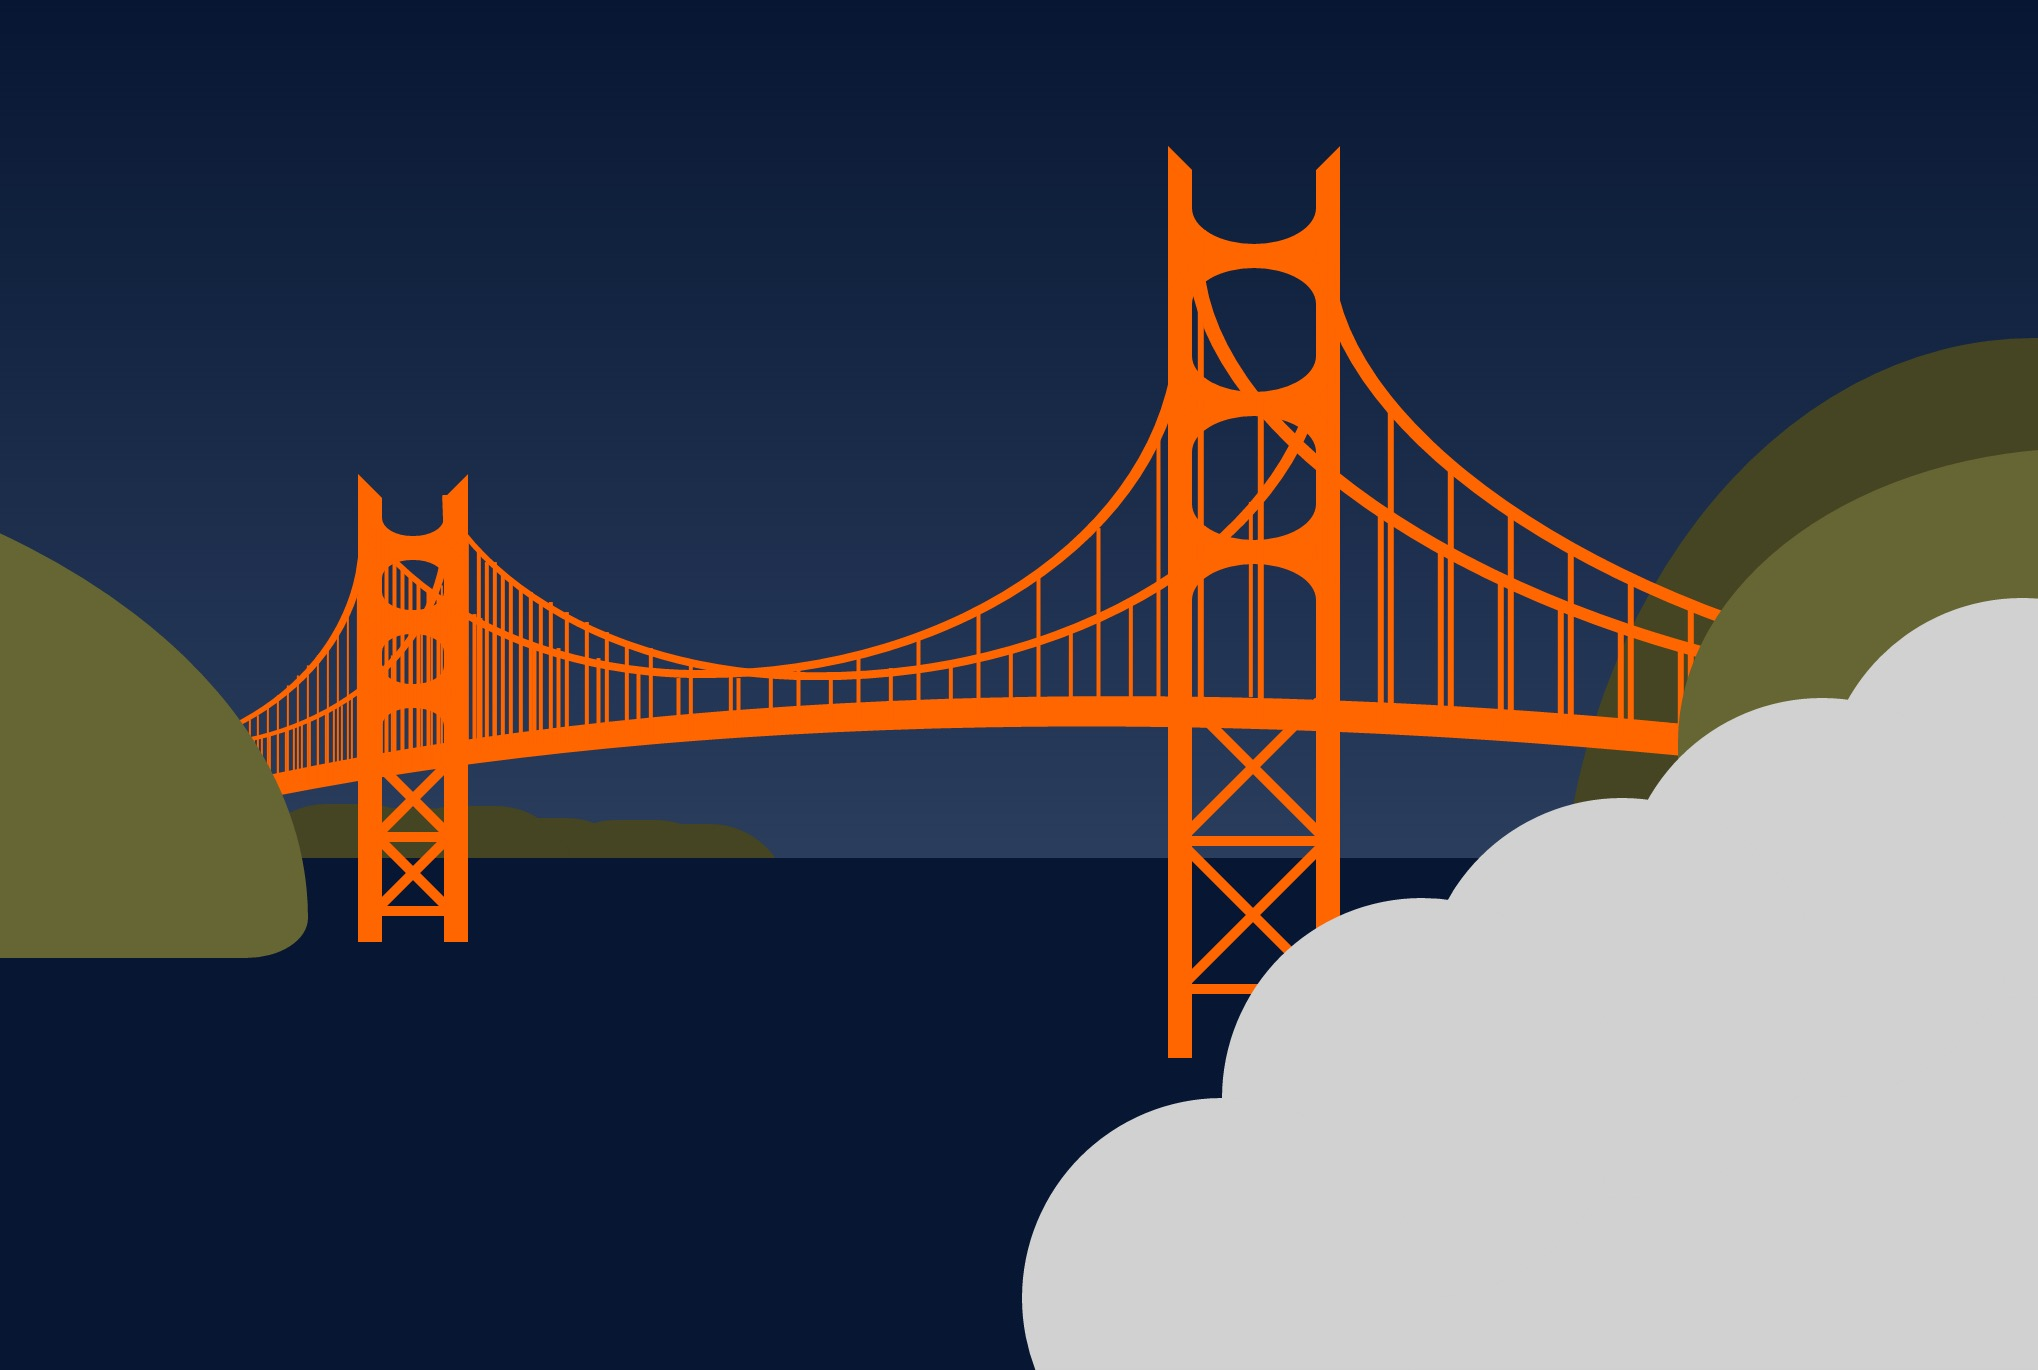
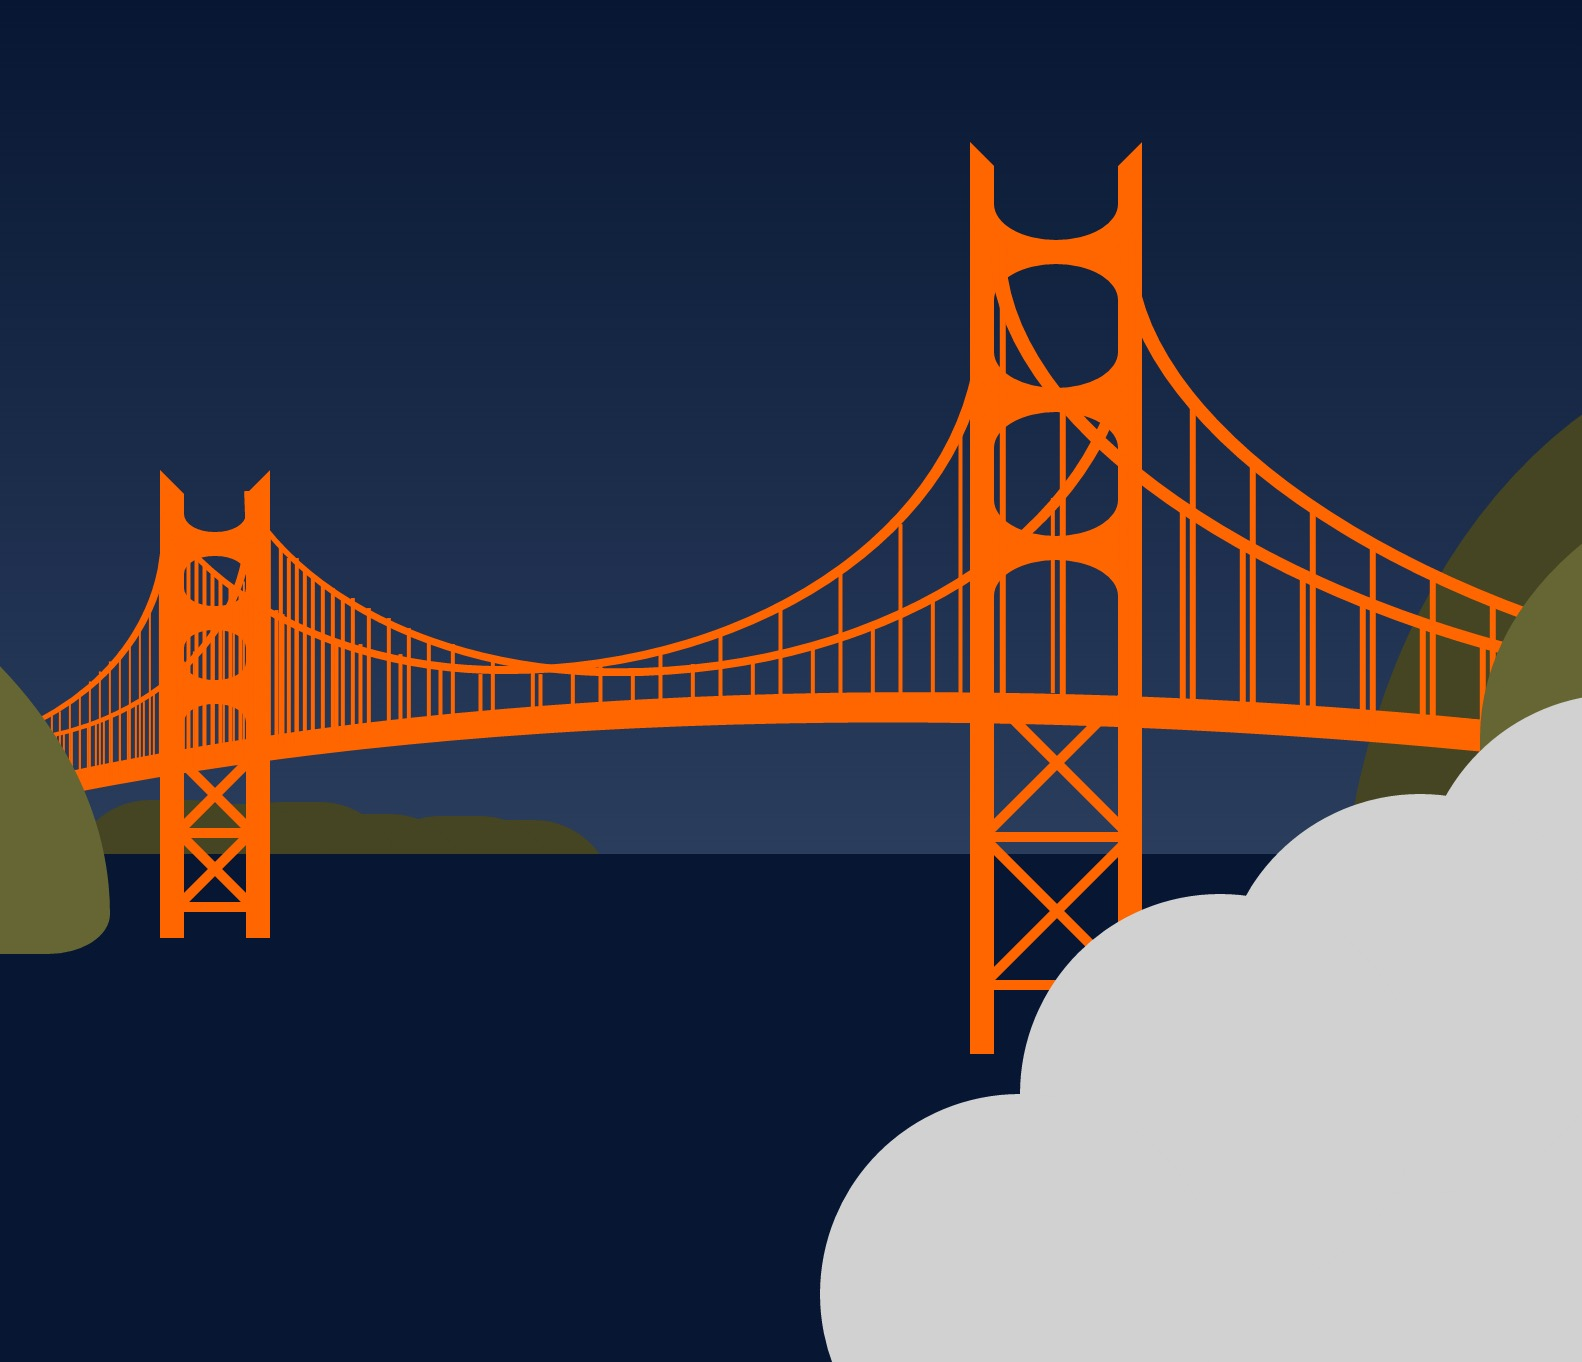
add more projects

Changed region(s): [[0.0, 0.0925, 1.0, 1.0], [0.3407, 0.5859, 0.3717, 0.6167]]

diff --git a/_site/index.html b/_site/index.html
@@ -124,22 +124,6 @@ _________,   ___/ /  ,__________
   <h2>Workings</h2>
   
 <article class="featured project">
-  <a class="post-img" href="/projects/2015-05-09-project-devolio.html" rel="bookmark" title="Link to DEVOLIO - Dev Portfolio"><img src="/assets/project-images/devolio2.jpg" alt="Sample of DEVOLIO - Dev Portfolio" /></a>
-  <a href="/projects/2015-05-09-project-devolio.html" class="featured-text">
-    <h3 class="bold subtitle">DEVOLIO - Dev Portfolio</h3>
-    <p>Final project for Dev Bootcamp Localhost</p>
-  </a>
-</article>
-
-<article class="featured project">
-  <a class="post-img" href="/projects/2015-05-08-project-pokedecks.html" rel="bookmark" title="Link to Pokédecks Flashcard Game"><img src="/assets/project-images/pokedecks.jpg" alt="Sample of Pokédecks Flashcard Game" /></a>
-  <a href="/projects/2015-05-08-project-pokedecks.html" class="featured-text">
-    <h3 class="bold subtitle">Pokédecks Flashcard Game</h3>
-    <p>Weekend team project at Dev Bootcamp</p>
-  </a>
-</article>
-
-<article class="featured project">
   <a class="post-img" href="/projects/2015-05-07-project-anf-responsive.html" rel="bookmark" title="Link to Prototype Transition of Existing A&amp;F Mobile/Desktop Websites to Responsive Design &amp; Codebase"><img src="/assets/project-images/anf-pdp-mid.png" alt="Sample of Prototype Transition of Existing A&amp;F Mobile/Desktop Websites to Responsive Design &amp; Codebase" /></a>
   <a href="/projects/2015-05-07-project-anf-responsive.html" class="featured-text">
     <h3 class="bold subtitle">Prototype Transition of Existing A&amp;F Mobile/Desktop Websites to Responsive Design &amp; Codebase</h3>
@@ -168,6 +152,22 @@ _________,   ___/ /  ,__________
   <a href="/projects/2015-05-04-project-pure-css-taj-mahal.html" class="featured-text">
     <h3 class="bold subtitle">Pure CSS Taj Mahal</h3>
     <p>Practice using SCSS to create digital art</p>
+  </a>
+</article>
+
+<article class="featured project">
+  <a class="post-img" href="/projects/2015-05-03-project-pure-css-bridge.html" rel="bookmark" title="Link to Pure CSS Golden Gate Bridge"><img src="/assets/project-images/pure-css-bridge.jpg" alt="Sample of Pure CSS Golden Gate Bridge" /></a>
+  <a href="/projects/2015-05-03-project-pure-css-bridge.html" class="featured-text">
+    <h3 class="bold subtitle">Pure CSS Golden Gate Bridge</h3>
+    <p>Practice using SCSS to create digital art</p>
+  </a>
+</article>
+
+<article class="featured project">
+  <a class="post-img" href="/projects/2015-05-02-project-quizzie.html" rel="bookmark" title="Link to Quizzie in JS/CSS"><img src="/assets/project-images/quizzie.jpg" alt="Sample of Quizzie in JS/CSS" /></a>
+  <a href="/projects/2015-05-02-project-quizzie.html" class="featured-text">
+    <h3 class="bold subtitle">Quizzie in JS/CSS</h3>
+    <p>Practice using js and css to create an internet-style quizzie</p>
   </a>
 </article>
 

diff --git a/_site/projects/2015-05-02-project-quizzie.html b/_site/projects/2015-05-02-project-quizzie.html
@@ -1,0 +1,70 @@
+<!DOCTYPE html>
+<html lang="en">
+	<!--
+                 , ,
+_________,   ___/ /  ,__________
+ )__   /(    `-, )    )\    __(
+    )_/ |\____/ /____/| \__(
+     / \|____    _____|/ \
+        '    )  )     '
+            ( (
+             ))
+            ((  HERE BE DRAGONS
+             ``_,
+ -->
+<meta charset="utf-8">
+<title>Quizzie in JS/CSS</title>
+<meta name="viewport" content="width=device-width, initial-scale=1.0">
+<meta name="author" content="Jan Dennison">
+<meta name="robots" content="" />
+<meta name="description" content="Practice using js and css to create an internet-style quizzie" />
+<link rel="canonical" href="/projects/2015-05-02-project-quizzie.html" />
+<link rel="shortcut icon" href="favicon.ico">
+
+<!-- Stylesheets -->
+<link href="/css/normalize.css" rel="stylesheet">
+<link href="/css/base.css" rel="stylesheet">
+
+<!-- Link placeholder to change stylesheets -->
+<link class="style" href="#" rel="stylesheet">
+
+<!-- Fonts -->
+<link rel="stylesheet" href="/css/fontello.css">
+
+<!-- Highlight Code Syntax -->
+<link rel="stylesheet" href="//cdnjs.cloudflare.com/ajax/libs/highlight.js/8.4/styles/default.min.css">
+
+	<body class="page">
+		<header>
+    <nav>
+  <ul>
+    <li><a href="http://jannypie.github.io#intro">Hellos</a></li>
+    <li><a href="http://jannypie.github.io#writings">Writings</a></li>
+    <li><a href="http://jannypie.github.io#works">Workings</a></li>
+  </ul>
+</nav>
+    <h1>
+      <a href="http://jannypie.github.io" rel="bookmark" title="Website for Jan Dennison">Jan Dennison</a>
+    </h1>
+</header>
+		<main class="container">
+			<h1> Quizzie in JS/CSS </h1>
+			<div class="col-third">
+  <img src="/assets/project-images/quizzie.jpg" alt="Quizzie">
+</div>
+<div class="col-twothird">
+  <h2>Spring 2014</h2>
+  <p>Practice using js and css to create an internet-style quizzie</p>
+  <p><a href="http://codepen.io/jannypie/pen/DcHdo" class="button inline">See it on Codepen</a></p>
+</div>
+		</main><!-- /container -->
+		<footer>
+  <p class="container">This site is designed to be <strong>responsive</strong>, <strong>HTML5</strong> validated, <strong>CSS validated</strong>, optimized for <strong>accessibility</strong>, with minimal <strong>JavaScript</strong> enhancements. It's also a github.io site with Jekyll blog integration.</p>
+<a class="icon-twitter social" href="http://twitter.com/jannypie"><span class="accessible">Twitter</span></a> <a class="icon-github social" href="http://github.com/jannypie"><span class="accessible">GitHub</span></a> <a class="icon-linkedin social" href="http://linkedin.com/in/jldennison/"><span class="accessible">LinkedIn</span></a>
+</footer>
+
+<!-- The jQuery and scripts -->
+<script type="text/javascript" src="/js/jquery-ui/js/jquery-1.9.1.js"></script>
+<script type="text/javascript" src="/js/main.js"></script>
+	</body>
+</html>

diff --git a/_site/projects/2015-05-03-project-pure-css-bridge.html b/_site/projects/2015-05-03-project-pure-css-bridge.html
@@ -1,0 +1,69 @@
+<!DOCTYPE html>
+<html lang="en">
+	<!--
+                 , ,
+_________,   ___/ /  ,__________
+ )__   /(    `-, )    )\    __(
+    )_/ |\____/ /____/| \__(
+     / \|____    _____|/ \
+        '    )  )     '
+            ( (
+             ))
+            ((  HERE BE DRAGONS
+             ``_,
+ -->
+<meta charset="utf-8">
+<title>Pure CSS Golden Gate Bridge</title>
+<meta name="viewport" content="width=device-width, initial-scale=1.0">
+<meta name="author" content="Jan Dennison">
+<meta name="robots" content="" />
+<meta name="description" content="Practice using SCSS to create digital art" />
+<link rel="canonical" href="/projects/2015-05-03-project-pure-css-bridge.html" />
+<link rel="shortcut icon" href="favicon.ico">
+
+<!-- Stylesheets -->
+<link href="/css/normalize.css" rel="stylesheet">
+<link href="/css/base.css" rel="stylesheet">
+
+<!-- Link placeholder to change stylesheets -->
+<link class="style" href="#" rel="stylesheet">
+
+<!-- Fonts -->
+<link rel="stylesheet" href="/css/fontello.css">
+
+<!-- Highlight Code Syntax -->
+<link rel="stylesheet" href="//cdnjs.cloudflare.com/ajax/libs/highlight.js/8.4/styles/default.min.css">
+
+	<body class="page">
+		<header>
+    <nav>
+  <ul>
+    <li><a href="http://jannypie.github.io#intro">Hellos</a></li>
+    <li><a href="http://jannypie.github.io#writings">Writings</a></li>
+    <li><a href="http://jannypie.github.io#works">Workings</a></li>
+  </ul>
+</nav>
+    <h1>
+      <a href="http://jannypie.github.io" rel="bookmark" title="Website for Jan Dennison">Jan Dennison</a>
+    </h1>
+</header>
+		<main class="container">
+			<h1> Pure CSS Golden Gate Bridge </h1>
+			<div class="col-third">
+  <img src="/assets/project-images/pure-css-bridge.jpg" alt="Pure CSS Golden Gate Bridge">
+</div>
+<div class="col-twothird">
+  <h2>Spring 2014</h2>
+  <p><a href="http://codepen.io/jannypie/pen/lFysn" class="button inline">See it on Codepen</a></p>
+</div>
+		</main><!-- /container -->
+		<footer>
+  <p class="container">This site is designed to be <strong>responsive</strong>, <strong>HTML5</strong> validated, <strong>CSS validated</strong>, optimized for <strong>accessibility</strong>, with minimal <strong>JavaScript</strong> enhancements. It's also a github.io site with Jekyll blog integration.</p>
+<a class="icon-twitter social" href="http://twitter.com/jannypie"><span class="accessible">Twitter</span></a> <a class="icon-github social" href="http://github.com/jannypie"><span class="accessible">GitHub</span></a> <a class="icon-linkedin social" href="http://linkedin.com/in/jldennison/"><span class="accessible">LinkedIn</span></a>
+</footer>
+
+<!-- The jQuery and scripts -->
+<script type="text/javascript" src="/js/jquery-ui/js/jquery-1.9.1.js"></script>
+<script type="text/javascript" src="/js/main.js"></script>
+	</body>
+</html>

diff --git a/_site/workings.html b/_site/workings.html
@@ -99,6 +99,22 @@ _________,   ___/ /  ,__________
     </a>
   </article>
   
+  <article class="featured post">
+    <a class="post-img" href="/projects/2015-05-03-project-pure-css-bridge.html" rel="bookmark" title="Link to Pure CSS Golden Gate Bridge"><img src="/assets/project-images/pure-css-bridge.jpg" alt="Sample of Pure CSS Golden Gate Bridge"></a>
+    <a href="/projects/2015-05-03-project-pure-css-bridge.html" class="featured-text">
+      <h3 class="bold subtitle">Pure CSS Golden Gate Bridge</h3>
+      <p>Practice using SCSS to create digital art</p>
+    </a>
+  </article>
+  
+  <article class="featured post">
+    <a class="post-img" href="/projects/2015-05-02-project-quizzie.html" rel="bookmark" title="Link to Quizzie in JS/CSS"><img src="/assets/project-images/quizzie.jpg" alt="Sample of Quizzie in JS/CSS"></a>
+    <a href="/projects/2015-05-02-project-quizzie.html" class="featured-text">
+      <h3 class="bold subtitle">Quizzie in JS/CSS</h3>
+      <p>Practice using js and css to create an internet-style quizzie</p>
+    </a>
+  </article>
+  
 </section>
 
 		</main><!-- /container -->

diff --git a/_projects/2015-05-02-project-quizzie.html b/_projects/2015-05-02-project-quizzie.html
@@ -1,0 +1,14 @@
+---
+layout: "page"
+title: "Quizzie in JS/CSS"
+meta-description: "Practice using js and css to create an internet-style quizzie"
+image: "/assets/project-images/quizzie.jpg"
+---
+<div class="col-third">
+  <img src="/assets/project-images/quizzie.jpg" alt="Quizzie">
+</div>
+<div class="col-twothird">
+  <h2>Spring 2014</h2>
+  <p>Practice using js and css to create an internet-style quizzie</p>
+  <p><a href="http://codepen.io/jannypie/pen/DcHdo" class="button inline">See it on Codepen</a></p>
+</div>

diff --git a/_projects/2015-05-03-project-pure-css-bridge.html b/_projects/2015-05-03-project-pure-css-bridge.html
@@ -1,0 +1,13 @@
+---
+layout: "page"
+title: "Pure CSS Golden Gate Bridge"
+meta-description: "Practice using SCSS to create digital art"
+image: "/assets/project-images/pure-css-bridge.jpg"
+---
+<div class="col-third">
+  <img src="/assets/project-images/pure-css-bridge.jpg" alt="Pure CSS Golden Gate Bridge">
+</div>
+<div class="col-twothird">
+  <h2>Spring 2014</h2>
+  <p><a href="http://codepen.io/jannypie/pen/lFysn" class="button inline">See it on Codepen</a></p>
+</div>
